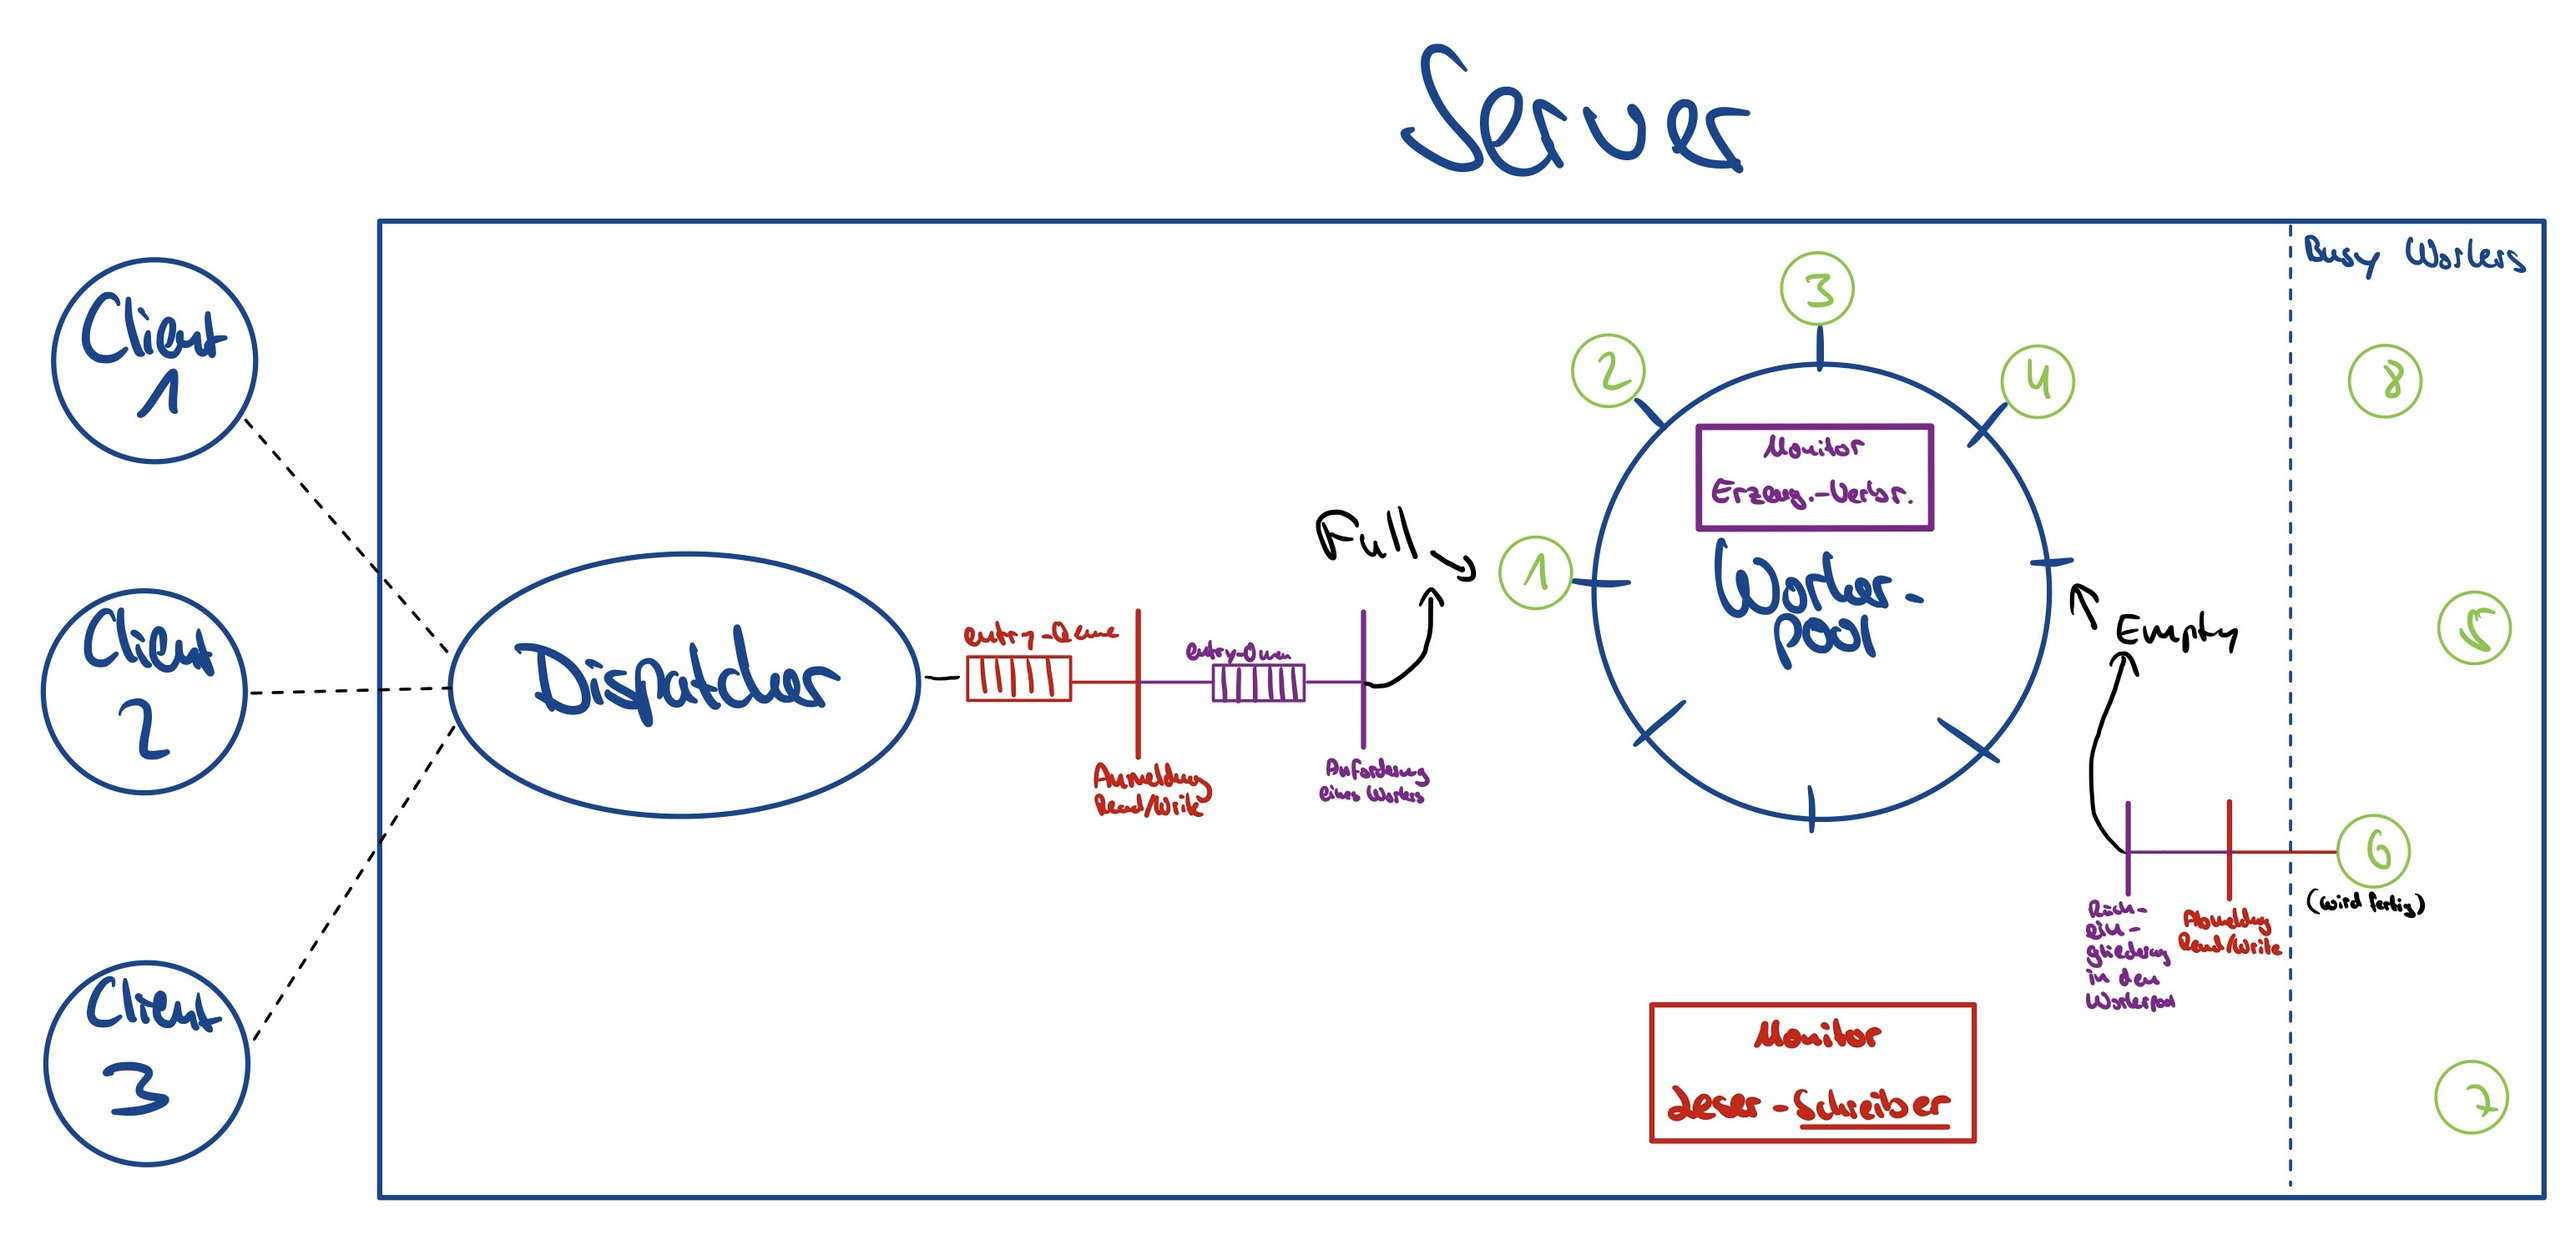
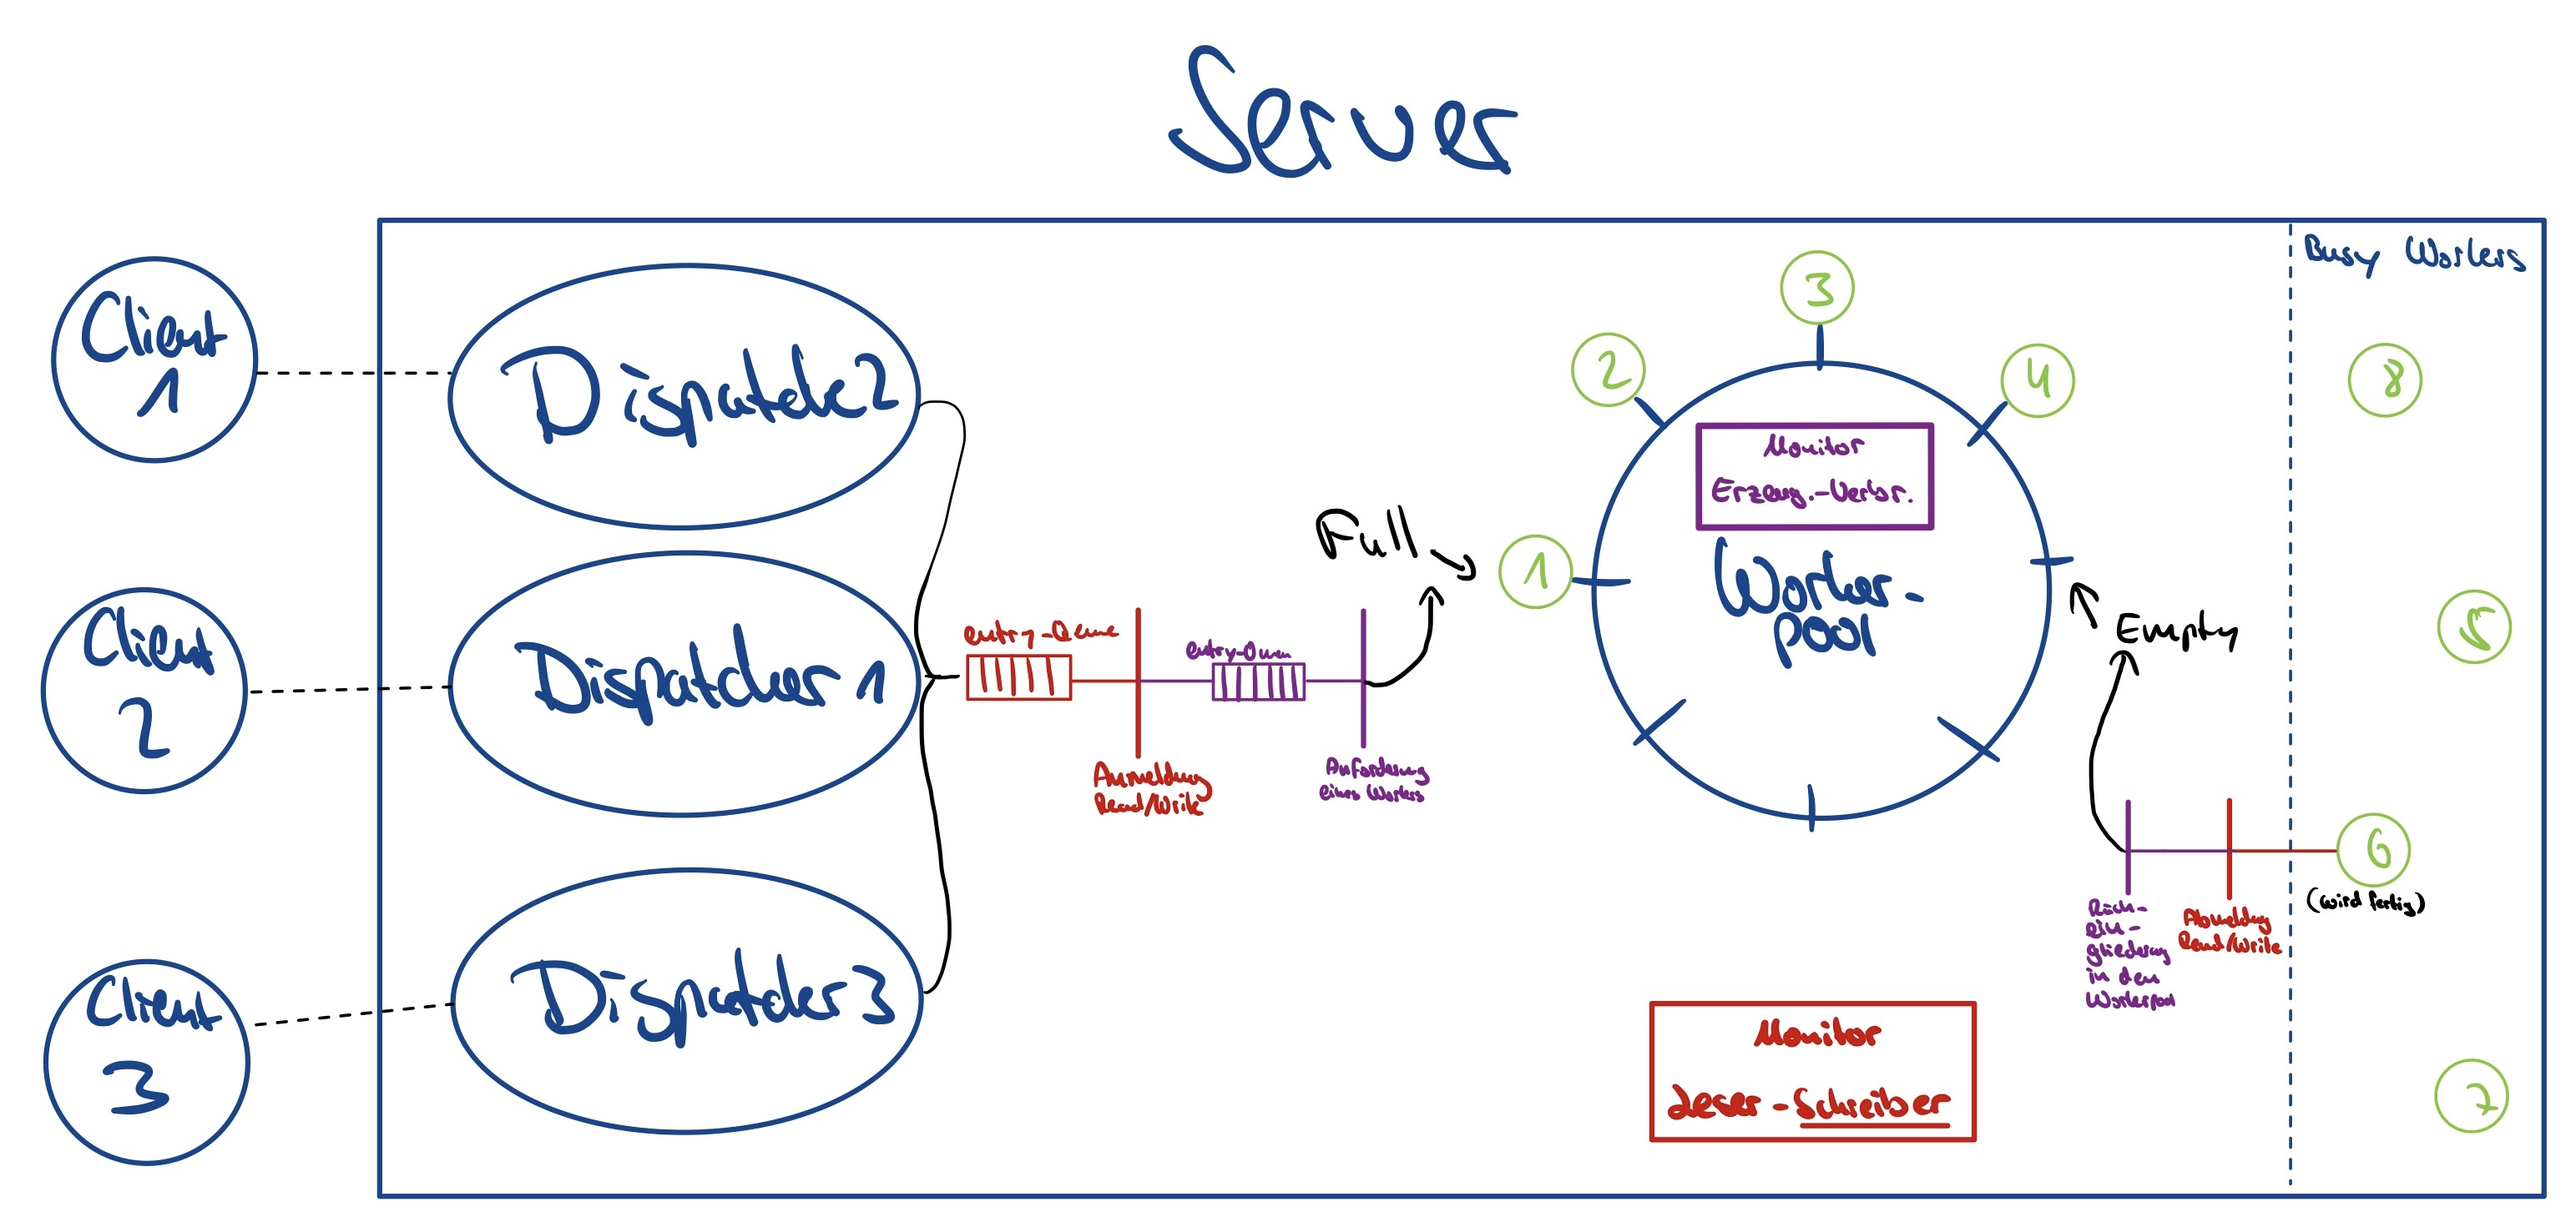
Finale Abgabe zzzZZZ

diff --git a/src/Aufgabe3/SpamClientRWRW.java b/src/Aufgabe3/SpamClientRWRW.java
@@ -7,7 +7,7 @@ import java.net.UnknownHostException;
 
 import static java.lang.Thread.sleep;
 
-public class SpamClientWRW {
+public class SpamClientRWRW {
 
     private static int PORT_SERVER  = 5999;
 
@@ -33,7 +33,7 @@ public class SpamClientWRW {
                 String writeMessage = "WRITE test,1,1";
                 String readMessage = "READ test,1";
 
-                String[] messages = {writeMessage, readMessage, writeMessage};
+                String[] messages = {readMessage, writeMessage, readMessage, writeMessage};
 
                 for (int i = 0; i < messages.length; i++) {
                     sleep(1000);

diff --git a/Testdokumentation/TestdokumentationTestat3.md b/Testdokumentation/TestdokumentationTestat3.md
@@ -11,7 +11,7 @@ Die Implementation ist ausführlich kommentiert. Um den Code zu testen, bitte Fo
 
 ## Skizzierung des der Umsetzung für das Verständnis der folgenden Testfälle
 
-Wenn der Server eine Nachricht N1 von einem Client empfängt, wird diese erstmal an den Dispatcher weitergegeben. Dieser entschlüsselt
+Wenn der Server eine Nachricht von einem Client empfängt, wird diese erstmal an einen jeweils eigenen Dispatcher weitergegeben. Dieser entschlüsselt
 erstmal die Nachricht und wandelt sie in eine Action um (bspw. "WRITE test,1,hallo"). Anschließend spricht der Dispatcher den
 Workerpool an und die Operation der Action auf eine bestimmte Datei wird beim ReaderWriterMonitor angemeldet. 
 Im Falle von "WRITE", erfolgt die Anmeldung nur, wenn keine aktive READ- oder WRITE-Operation auf die gleiche Datei zugreift.
@@ -211,7 +211,89 @@ Nachdem diese abgemeldet wurde, bekommt das WRITE die Starterlaubnis.
 #### 2.2.1 Testfall - Leser und Schreiber auf eine Datei mit Hervorhebung der Schreiberpriorität
 
 Um das Vorliegen der Schreiberpriorität nochmal zu verdeutlichen, habe ich mich entschieden einen Testfall zu ergänzen.
-Während 
+
+Durchführung: Ich habe einen weiteren Testclient names "SpamClientRWRW" erstellt, der unmittelbar hintereinander 
+erst einen Lese-, dann einen Schreibe-, dann wieder einen Lese- und dann am Ende einen Schreibebefehl schickt. 
+Diese sollten nach dem zweiten Leser-Schreiber-Problem folgend ausgeführt werden: Lesen, Schreiben, Schreiben, Lesen
+
+
+```
+Added new ServerTask to dispatcher
+Getting new free worker from worker pool
+=> Registering operation: READ on file test
+Trying to start reading operation for test
+READ-operation on test is registered and is allowed to start.
+Returning free worker from worker pool for operation: READ
+Dispatching action and client information to returned free worker
+Dispatched
+Worker 4 has started to process Action: READ
+Content from test loaded.
+Added new ServerTask to dispatcher
+Getting new free worker from worker pool
+Registering operation: WRITE on file test
+Trying to start writing operation for test
+=> WRITE-Operation waits for reader on file test to finish.
+Added new ServerTask to dispatcher
+Getting new free worker from worker pool
+Registering operation: READ on file test
+Trying to start reading operation for test
+=> READ-Operation waits for writer on file test to finish.
+Worker 4 prepared message for client: 1
+Response has been sent
+Worker  4 has finished and is adding himself back to the worker pool
+Unregistering action: READ on file test
+Reading operation on test is deleted. All waiting operations are getting notified.
+Worker has been added back to pool (and the next waiting server tasks will be resumed)
+=> WRITE-Operation on test is registered and is allowed to start.
+Returning free worker from worker pool for operation: WRITE
+READ-Operation waits for writer on file test to finish.
+Dispatching action and client information to returned free worker
+Dispatched
+Worker 5 has started to process Action: WRITE
+Content from test loaded.
+Added new ServerTask to dispatcher
+Getting new free worker from worker pool
+Registering operation: WRITE on file test
+Trying to start writing operation for test
+=> Preregistration for file : test since the Writer is still busy
+WRITE-Operation waits for writer on file test to finish.
+Content from test loaded.
+Worker 5 prepared message for client: New line content: 1
+Response has been sent
+Worker  5 has finished and is adding himself back to the worker pool
+Unregistering action: WRITE on file test
+Writing operation on test is deleted. All waiting operations are getting notified.
+Worker has been added back to pool (and the next waiting server tasks will be resumed)
+READ-Operation waits for writer on file test to finish.
+=> WRITE-Operation on test is registered and is allowed to start.
+Returning free worker from worker pool for operation: WRITE
+Dispatching action and client information to returned free worker
+Dispatched
+Worker 6 has started to process Action: WRITE
+Content from test loaded.
+Content from test loaded.
+Worker 6 prepared message for client: New line content: 1
+Response has been sent
+Worker  6 has finished and is adding himself back to the worker pool
+=> Unregistering action: WRITE on file test
+Writing operation on test is deleted. All waiting operations are getting notified.
+Worker has been added back to pool (and the next waiting server tasks will be resumed)
+=> READ-operation on test is registered and is allowed to start.
+Returning free worker from worker pool for operation: READ
+Dispatching action and client information to returned free worker
+Dispatched
+Worker 7 has started to process Action: READ
+Content from test loaded.
+Worker 7 prepared message for client: 1
+Response has been sent
+Worker  7 has finished and is adding himself back to the worker pool
+Unregistering action: READ on file test
+Reading operation on test is deleted. All waiting operations are getting notified.
+Worker has been added back to pool (and the next waiting server tasks will be resumed)
+```
+
+Erläuterung: Wie erwartet startet als Erstes die erste Leseoperation (L1). Die darauffolgende Schreibeoperation (S2) muss noch warten, bis L1 fertig ist.
+S2 kann danach starten und blockiert direkt L3, die auch starten möchte. Danach kommt direkt die letzte Schreibeoperation (S4). Erst danach kann L3 starten.
 
 
 #### 2.3 Testfall - Leser und Schreiber auf unterschiedliche Dateien
